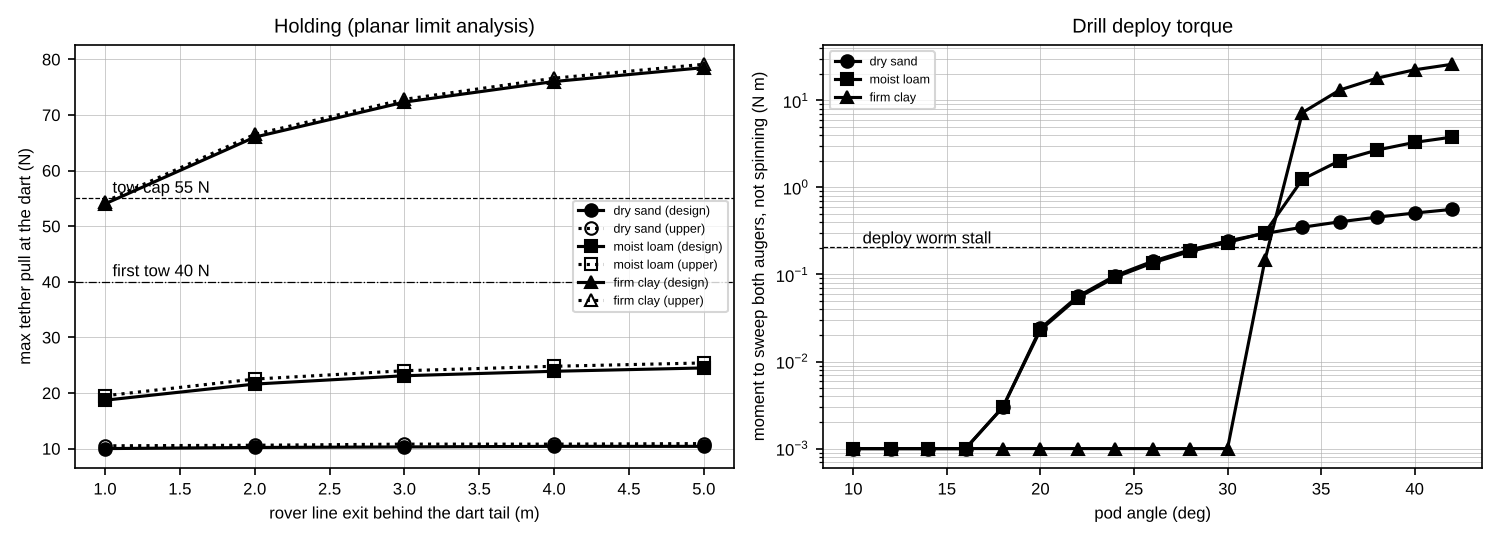
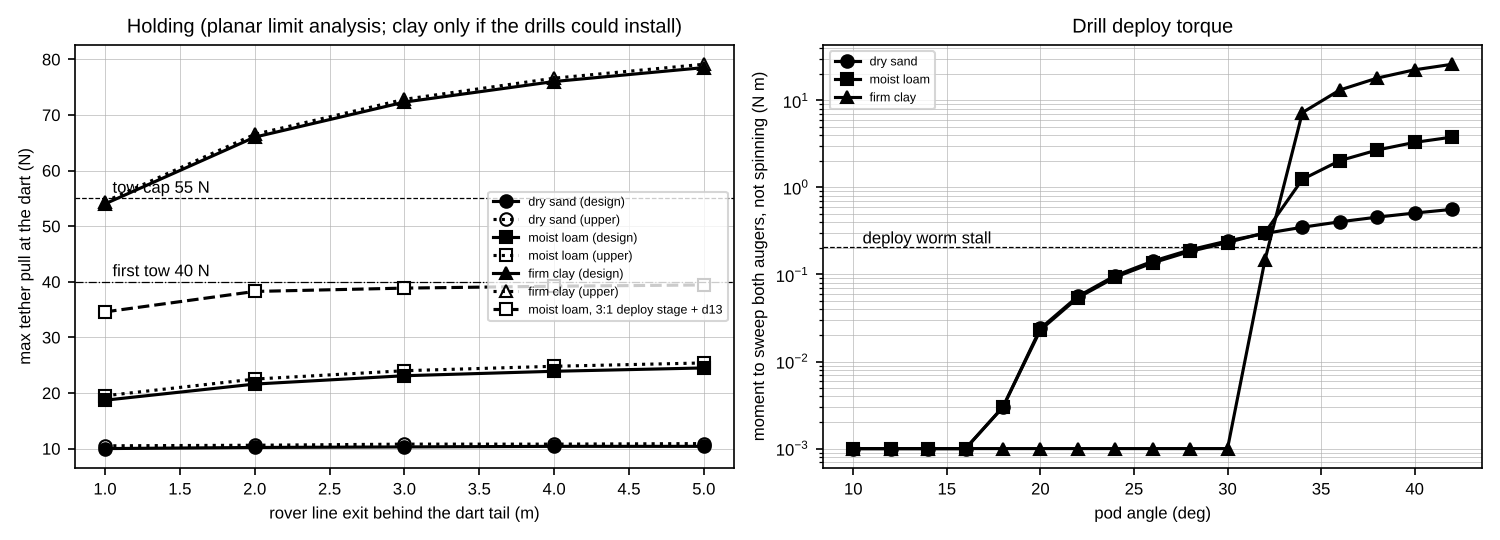
dart-physics: holding plot with the fixed design
Claude-Session: https://claude.ai/code/session_01Y9T2MA1da8uJdcpXwDwLHT

diff --git a/kedge/dart_anchor.py b/kedge/dart_anchor.py
@@ -479,10 +479,13 @@ def plots(A, R, outd):
         x = [r["rover_m"] for r in rows]
         ax[0].plot(x, [r["F_design_N"] for r in rows], "k-", marker="os^"[i], label=sn + " (design)")
         ax[0].plot(x, [r["F_upper_translation_N"] for r in rows], "k:", marker="os^"[i], mfc="none", label=sn + " (upper)")
+    A13 = Anchor(A.d, auger_d_mm=13.0)
+    xr = [1.0, 2.0, 3.0, 4.0, 5.0]
+    ax[0].plot(xr, [A13.limit(dm.SOIL["moist loam"], r, worm_hold=3 * WORM_HOLD_NM)["F"] for r in xr], "k--", marker="s", mfc="w", label="moist loam, 3:1 deploy stage + d13")
     ax[0].axhline(TOW_CAP_N, color="k", lw=0.6, ls="--"); ax[0].text(1.05, TOW_CAP_N + 1, "tow cap 55 N")
     ax[0].axhline(FIRST_TOW_N, color="k", lw=0.6, ls="-."); ax[0].text(1.05, FIRST_TOW_N + 1, "first tow 40 N")
     ax[0].set_xlabel("rover line exit behind the dart tail (m)"); ax[0].set_ylabel("max tether pull at the dart (N)"); ax[0].grid(lw=0.3)
-    ax[0].legend(fontsize=6); ax[0].set_title("Holding (planar limit analysis)")
+    ax[0].legend(fontsize=6, loc="center right"); ax[0].set_title("Holding (planar limit analysis; clay only if the drills could install)")
     for i, sn in enumerate(R["soils"]):
         pr = R["soils"][sn]["deploy"]["profile_deg_Nm"]
         ax[1].semilogy([p[0] for p in pr], [max(p[1], 1e-3) for p in pr], "k-", marker="os^"[i], label=sn)
